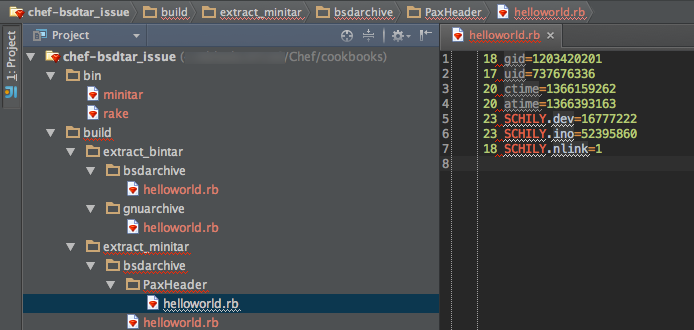
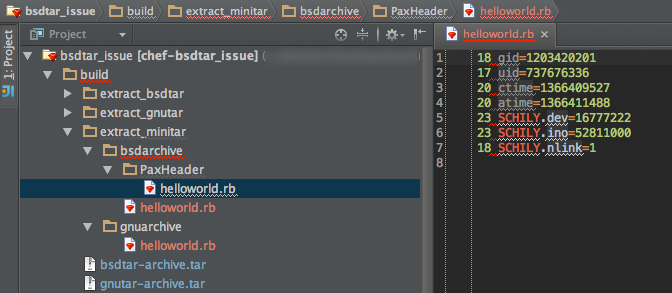
Additional tests.

Changed region(s): [[0.0, 0.0, 1.0, 1.0]]

diff --git a/test/minitest/test_bsdarchive.rb b/test/minitest/test_bsdarchive.rb
@@ -3,9 +3,15 @@ require 'minitest/autorun'
 
 describe "bsd tar archive" do
 
-  describe "when extracted with bin/tar" do
+  describe "when extracted with bsdtar" do
     it "will not produce extra files" do
-      %x{ls build/extract_bintar/bsdarchive}.chomp.must_equal "helloworld.rb"
+      %x{ls build/extract_bsdtar/bsdarchive}.chomp.must_equal "helloworld.rb"
+    end
+  end
+
+  describe "when extracted with gnutar" do
+    it "will not produce extra files" do
+      %x{ls build/extract_gnutar/bsdarchive}.chomp.must_equal "helloworld.rb"
     end
   end
 

diff --git a/test/minitest/test_gnuarchive.rb b/test/minitest/test_gnuarchive.rb
@@ -3,9 +3,15 @@ require 'minitest/autorun'
 
 describe "gnu tar archive" do
 
-  describe "when extracted with bin/tar" do
+  describe "when extracted with bsdtar" do
     it "will not produce extra files" do
-      %x{ls build/extract_bintar/gnuarchive}.chomp.must_equal "helloworld.rb"
+      %x{ls build/extract_bsdtar/gnuarchive}.chomp.must_equal "helloworld.rb"
+    end
+  end
+
+  describe "when extracted with gnutar" do
+    it "will not produce extra files" do
+      %x{ls build/extract_gnutar/gnuarchive}.chomp.must_equal "helloworld.rb"
     end
   end
 
